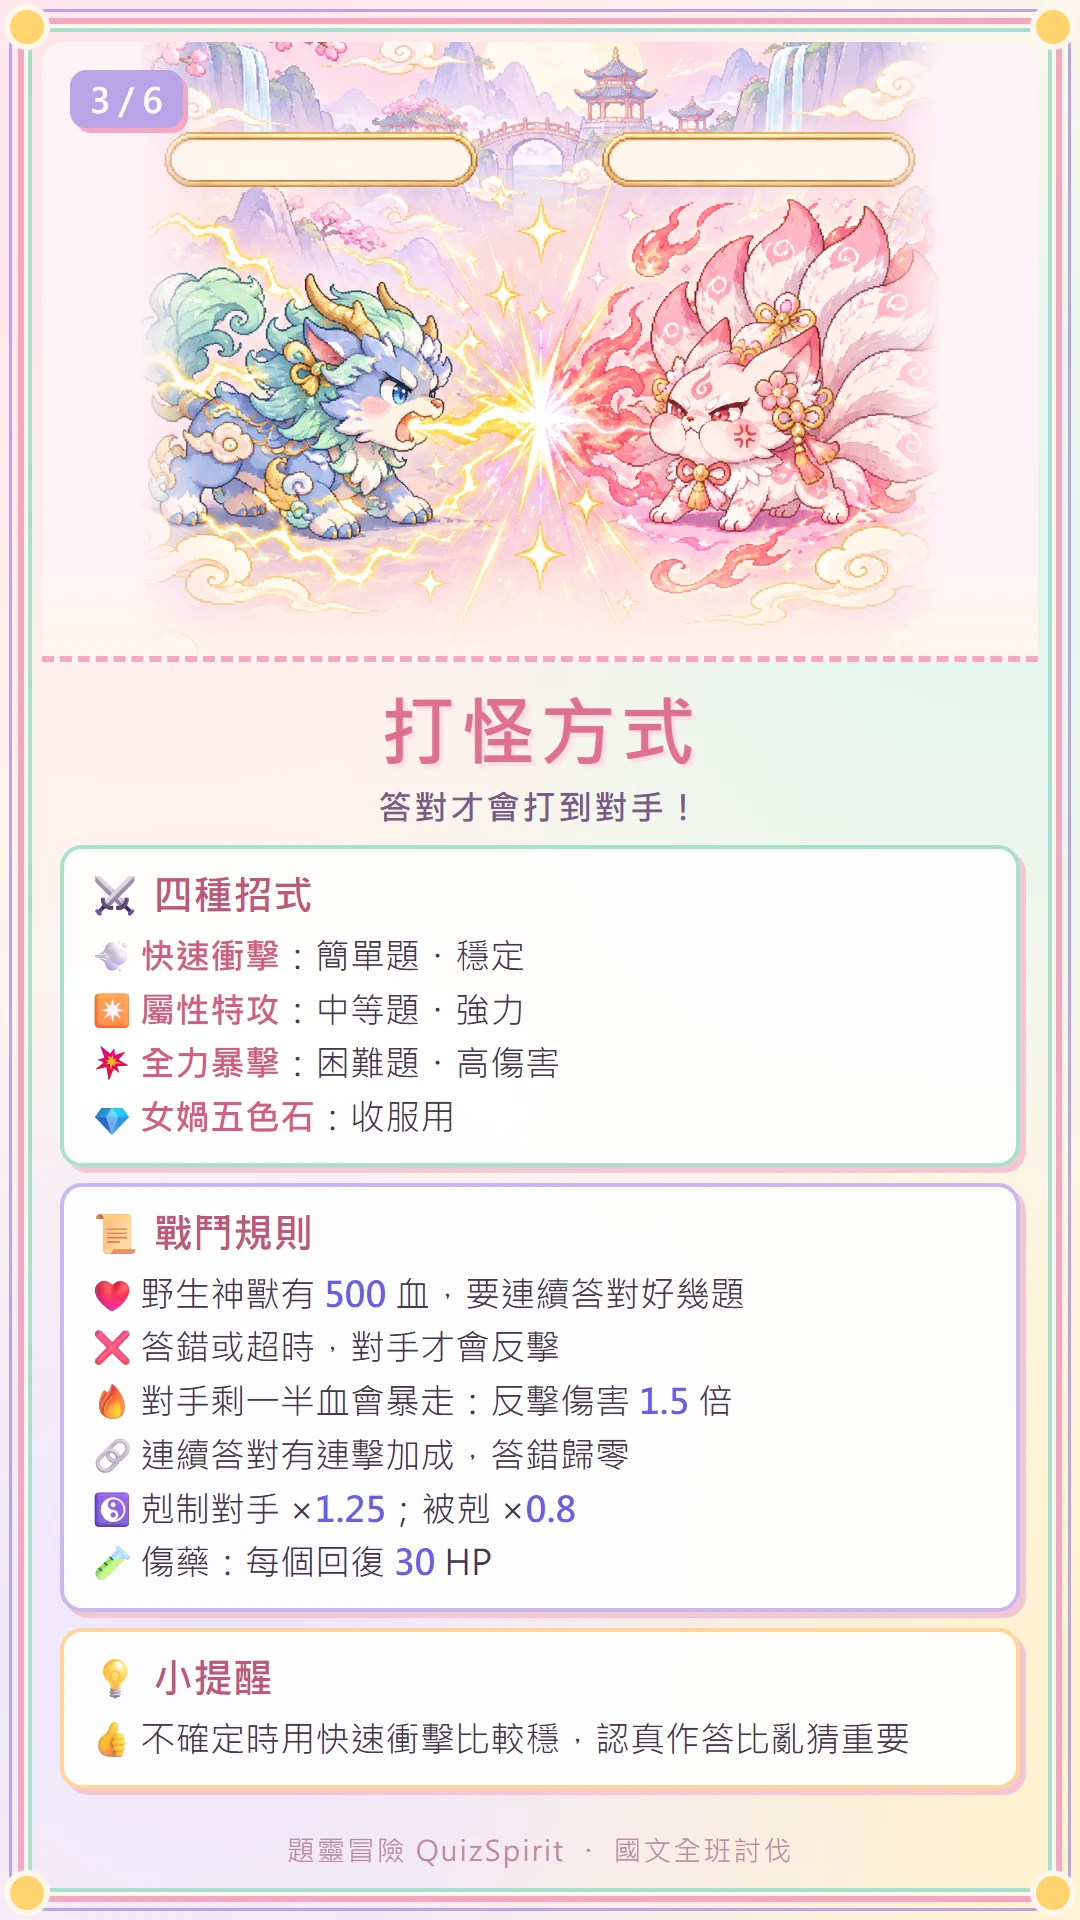
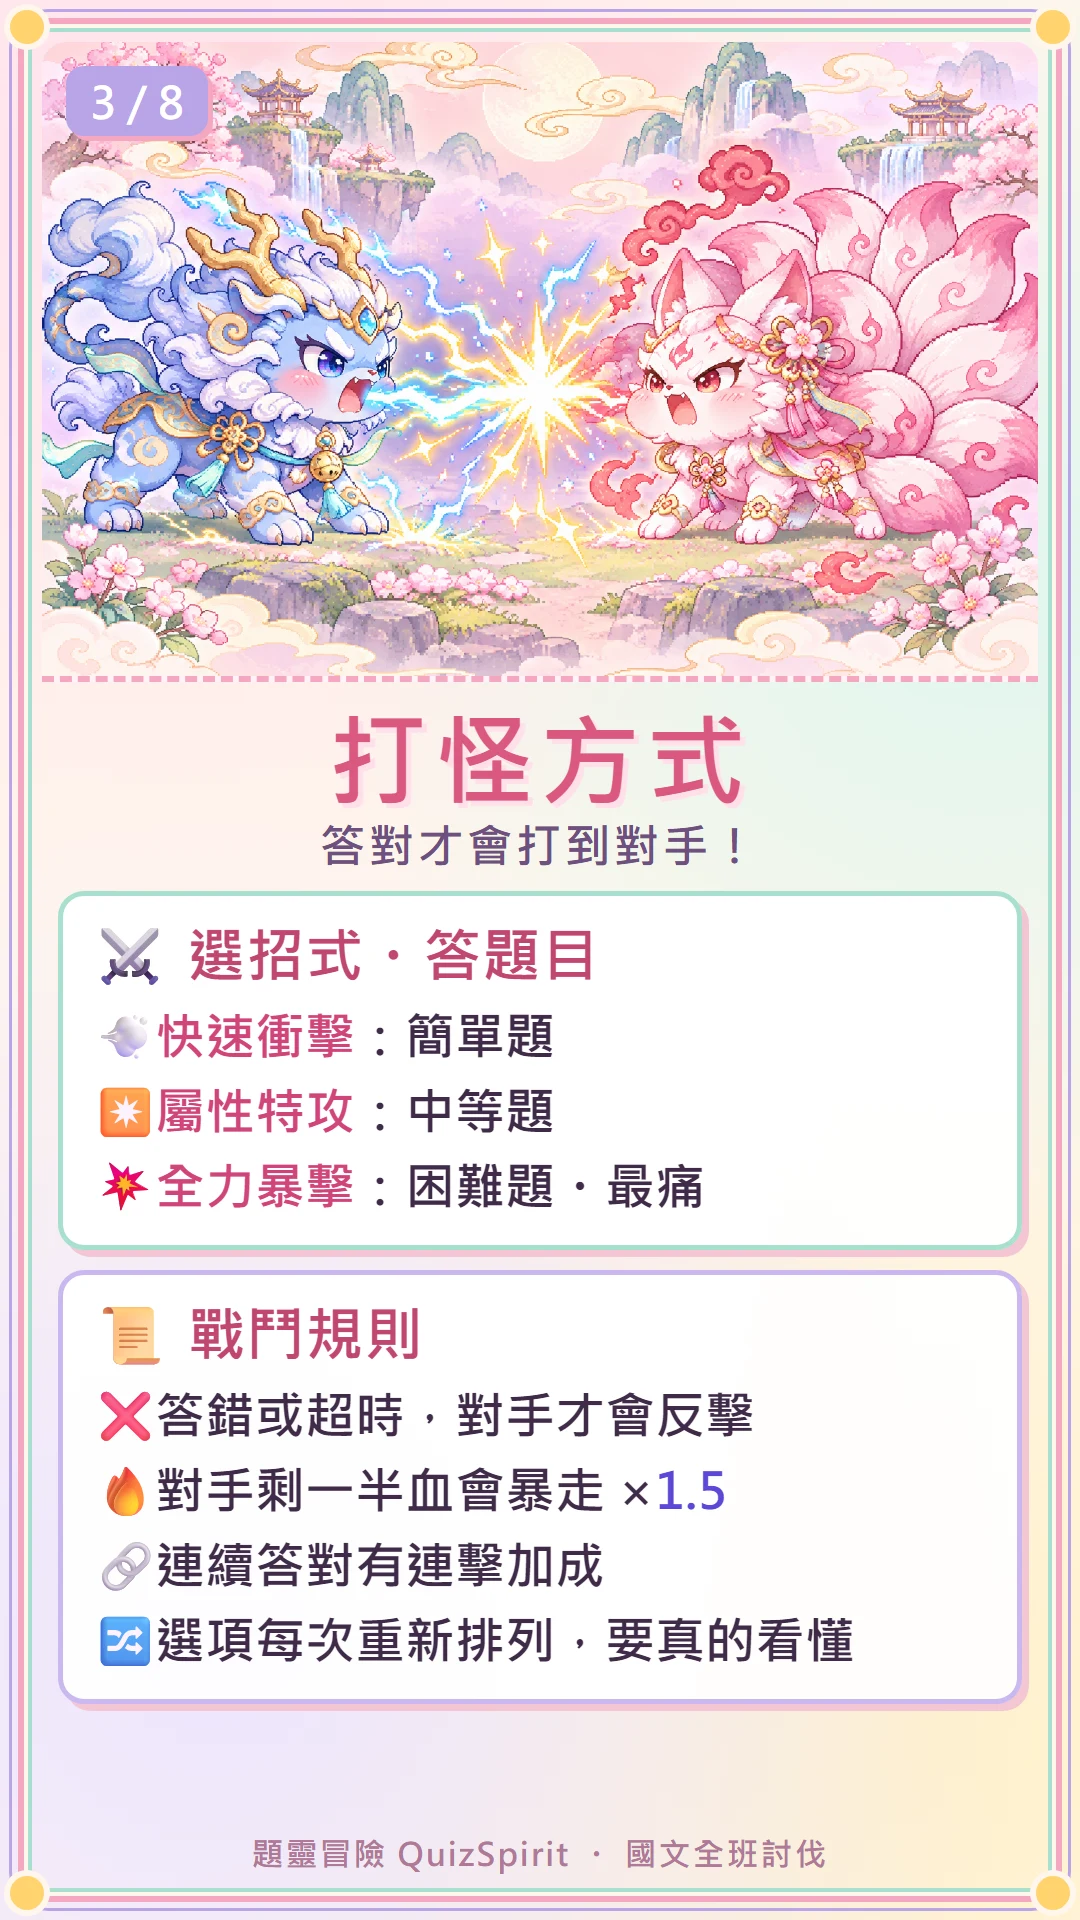
遊戲說明卡改成大字馬卡龍版 8 張（Codex 重繪插圖）

diff --git a/src/GuideViewer.jsx b/src/GuideViewer.jsx
@@ -1,7 +1,7 @@
 import React,{useEffect,useRef,useState} from 'react';
 import {ChevronLeft,ChevronRight,X} from 'lucide-react';
-// 遊戲說明懶人包：6 張直式圖卡，左右切換（按鈕、方向鍵、手機左右滑）。
-const PAGES=['第一次使用','選你的夥伴','打怪方式','收服神獸','每天變強','和同學一起玩'];
+// 遊戲說明懶人包：8 張直式圖卡（大字版），左右切換（按鈕、方向鍵、手機左右滑）。
+const PAGES=['第一次使用','選你的夥伴','打怪方式','破盾・蓄力・覺醒','收服神獸','每天變強','共同討伐','和同學一起玩'];
 export default function GuideViewer({onClose}){
  const [i,setI]=useState(0);const touch=useRef(null);const n=PAGES.length;
  const go=d=>setI(x=>Math.min(n-1,Math.max(0,x+d)));
